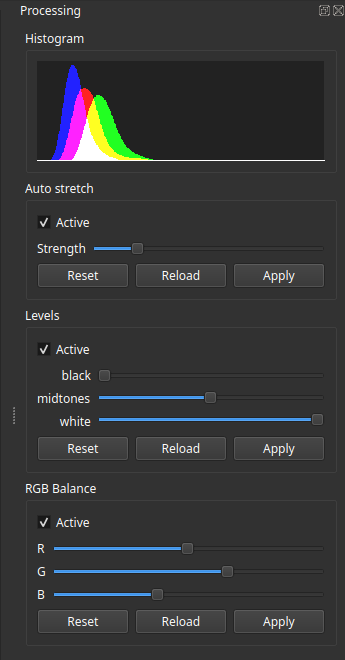
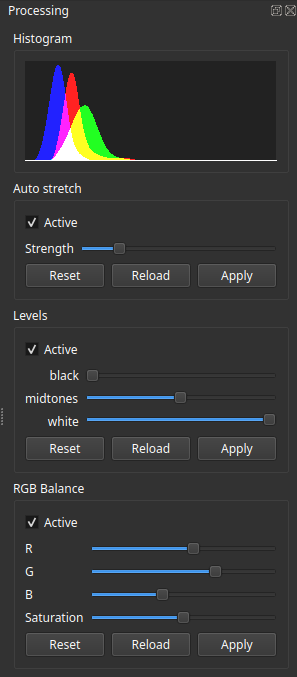
update EN and FR processing panel screenshot
We now have a saturation slider

diff --git a/website/content/fr/docs/v1.0/userguide/ui/processing/_index.md b/website/content/fr/docs/v1.0/userguide/ui/processing/_index.md
@@ -2,7 +2,7 @@
 title: "Traitements"
 description: "Documentation du panneau Traitements de ALS"
 author: "Équipe ALS"
-lastmod: 2025-11-20T00:00:30Z
+lastmod: 2025-11-24T18:20:31Z
 keywords: [ "traitements ALS", "histogramme", "auto stretch", "niveaux", "balance RVB", "curseurs", "panneaux" ]
 type: "docs"
 tags: [ "histogramme", "stretch", "curseurs", "traitements", "panneaux" ]
@@ -39,8 +39,8 @@ Situé sur le côté droit de l’interface, ce panneau regroupe les contrôles 
 <div class="col-md-4 d-flex align-items-center justify-content-center">
 {{< figure src="panel.png" 
 caption="Le panneau Traitements" 
-width="345px"
-height="670px"
+width="297px"
+height="675px"
 alt="Le panneau Traitements de ALS, incluant les sections Histogramme, Auto Stretch, Niveaux, et Balance RVB avec leurs curseurs et contrôles associés." >}}
 </div>
 </div>

diff --git a/website/content/en/docs/v1.0/userguide/ui/processing/_index.md b/website/content/en/docs/v1.0/userguide/ui/processing/_index.md
@@ -2,7 +2,7 @@
 title: "Processing"
 description: "Documentation for the ALS Processing Panel"
 author: "ALS Team"
-lastmod: 2025-11-20T00:00:30Z
+lastmod: 2025-11-24T18:20:31Z
 keywords: [ "ALS processing", "histogram", "auto stretch", "levels", "RGB balance", "sliders", "panels" ]
 type: "docs"
 tags: [ "histogram", "stretch", "sliders", "processing", "panels" ]
@@ -39,8 +39,8 @@ Located on the right side of the interface, this panel organizes image processin
 <div class="col-md-4 d-flex align-items-center justify-content-center">
 {{< figure src="panel.png" 
 caption="The Processing Panel" 
-width="345px"
-height="670px"
+width="297px"
+height="677px"
 alt="The ALS Processing Panel, including the Histogram, Auto Stretch, Levels, and RGB Balance sections with their respective sliders and controls." >}}
 </div>
 </div>
